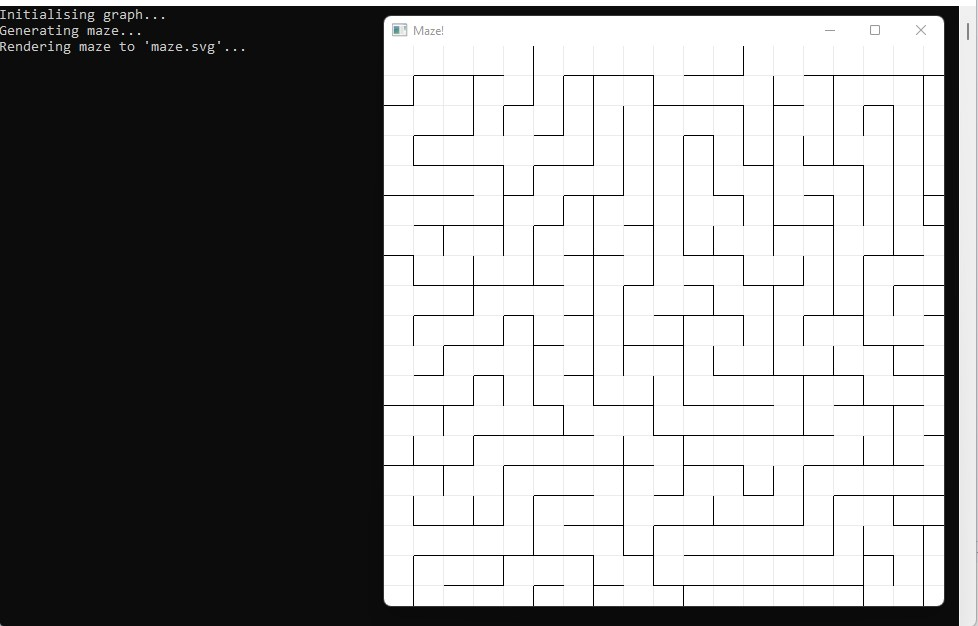
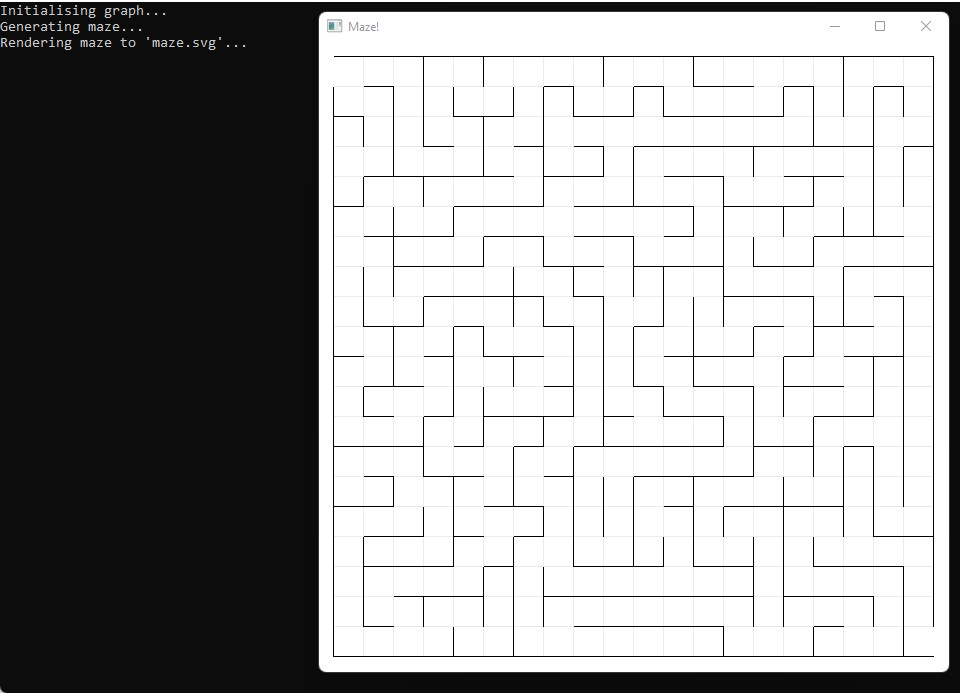
Minor improvements

diff --git a/algorithms/lineborder.cpp b/algorithms/lineborder.cpp
@@ -13,9 +13,9 @@ LineBorder::LineBorder(std::tuple<double, double, double, double> xy)
 
 std::string LineBorder::SVGPrintString(const std::string& color) const
 {
-	return "<line x1=\"" + std::to_string(_x1 * 30) + "\" x2=\"" +
-		std::to_string(_x2 * 30) + "\" y1=\"" + std::to_string(_y1 * 30) +
-		"\" y2=\"" + std::to_string(_y2 * 30) + "\" stroke=\"" + color +
+	return "<line x1=\"" + std::to_string(_x1 * SQUARE_TILE_SIZE) + "\" x2=\"" +
+		std::to_string(_x2 * SQUARE_TILE_SIZE) + "\" y1=\"" + std::to_string(_y1 * SQUARE_TILE_SIZE) +
+		"\" y2=\"" + std::to_string(_y2 * SQUARE_TILE_SIZE) + "\" stroke=\"" + color +
 		"\" stroke-linecap=\"round\" stroke-width=\"3\"/>";
 }
 
@@ -24,8 +24,8 @@ void LineBorder::Draw(sf::RenderWindow& window, Color& color) const
 {
 	sf::Vertex line[] =
 	{
-		sf::Vertex(sf::Vector2f(_x1 * 30, _y1 * 30), color),
-		sf::Vertex(sf::Vector2f(_x2 * 30, _y2 * 30), color)
+		sf::Vertex(sf::Vector2f(SQUARE_TILE_SIZE / 2 + _x1 * SQUARE_TILE_SIZE, SQUARE_TILE_SIZE / 2 + _y1 * SQUARE_TILE_SIZE), color),
+		sf::Vertex(sf::Vector2f(SQUARE_TILE_SIZE / 2 + _x2 * SQUARE_TILE_SIZE, SQUARE_TILE_SIZE / 2 + _y2 * SQUARE_TILE_SIZE), color)
 	};
 
 	window.draw(line, 2, sf::Lines);

diff --git a/main.cpp b/main.cpp
@@ -18,7 +18,8 @@ using namespace std;
 
 int main(int argc, char* argv[])
 {
-	RenderWindow window(VideoMode(HORIZONTAL_CELLS * SQUARE_CELL_SIZE, VERTICAL_CELLS * SQUARE_CELL_SIZE), "Maze!");
+	RenderWindow window(VideoMode(HORIZONTAL_CELLS * SQUARE_TILE_SIZE + SQUARE_TILE_SIZE,
+		VERTICAL_CELLS * SQUARE_TILE_SIZE + SQUARE_TILE_SIZE), "Maze!");
 
 	std::string outputprefix = "maze";
 

diff --git a/common.h b/common.h
@@ -4,8 +4,6 @@
 
 const int VERTICAL_CELLS = 20;
 const int HORIZONTAL_CELLS = 20;
-const int SQUARE_TILE_SIZE = 26;
-const int SQUARE_WALL_SIZE = 2;
-const int SQUARE_CELL_SIZE = 28;
+const int SQUARE_TILE_SIZE = 30;
 
 #endif
